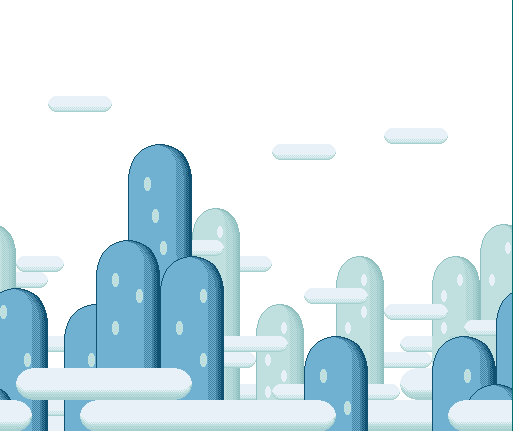
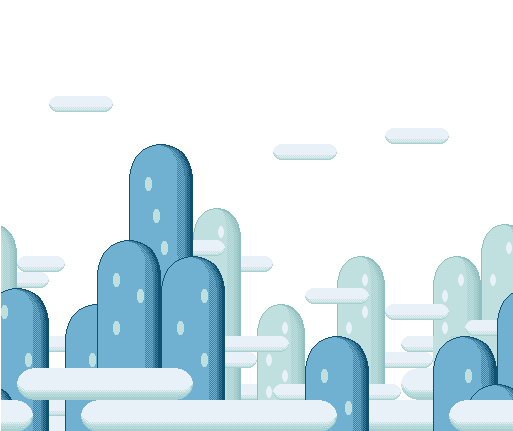
Fix camera width bigger than display

diff --git a/core/js/Loaders/LevelLoader.js b/core/js/Loaders/LevelLoader.js
@@ -16,37 +16,37 @@ export default async function loadLevel(name)
 {
     const level = new Level()
 
-    level.spec = await loadJSON(`core/levels/${name}.json`)
+    const levelSpec = await loadJSON(`core/levels/${name}.json`)
 
     // Set level size to the Container
     Container.bind({ 
-        levelWidth: level.spec.columns * Tile.defaultWidth,
-        levelHeight: level.spec.rows * Tile.defaultHeight,
+        levelWidth: levelSpec.columns * Tile.defaultWidth,
+        levelHeight: levelSpec.rows * Tile.defaultHeight,
     })
 
     // Background
-    const backgroundImage = await loadImage(`core/gfx/backgrounds/${level.spec.backgroundImage}`)
+    const backgroundImage = await loadImage(`core/gfx/backgrounds/${levelSpec.backgroundImage}`)
     
-    const backgroundLayer = new BackgroundLayer(level.spec.backgroundColor, backgroundImage, {
-        rows: level.spec.rows,
-        columns: level.spec.columns,
+    const backgroundLayer = new BackgroundLayer(levelSpec.backgroundColor, backgroundImage, {
+        rows: levelSpec.rows,
+        columns: levelSpec.columns,
     })
 
     level.layers.addBackgroundLayer(backgroundLayer)
 
     // Load Sprite Sheet
-    const spriteSheet = await loadSpriteSheet(level.spec.spriteSheet)
+    const spriteSheet = await loadSpriteSheet(levelSpec.spriteSheet)
 
     // Create tile layers
-    level.spec.layers.forEach(layerSpec => {
-        const layer = createTileLayer(layerSpec.tiles, level.spec.columns, level.spec.rows, spriteSheet)
+    levelSpec.layers.forEach(layerSpec => {
+        const layer = createTileLayer(layerSpec.tiles, levelSpec.columns, levelSpec.rows, spriteSheet)
         level.layers.addTileLayer(layer)
     })
 
-    createTileCollider(level.spec.layers, level.spec.columns, level.spec.rows, spriteSheet)
+    createTileCollider(levelSpec.layers, levelSpec.columns, levelSpec.rows, spriteSheet)
 
     //Sprite Layers
-    const spriteLayer = await createSpriteLayer(level.spec.gameObjects)
+    const spriteLayer = await createSpriteLayer(levelSpec.gameObjects)
     level.layers.addSpriteLayer(spriteLayer)
 
     Container.bind({ level })

diff --git a/core/js/Camera/Camera.js b/core/js/Camera/Camera.js
@@ -17,7 +17,7 @@ export default class Camera {
     }
 
     update(dt) {
-        // 
+        //
     }
 
     render(g) {
@@ -47,6 +47,14 @@ export default class Camera {
     checkBlankSpace() {
         const levelWidth = Container.getModule('levelWidth')
         const levelHeight = Container.getModule('levelHeight')
+
+        if (this.width > levelWidth) {
+            this.width = levelWidth
+        }
+
+        if (this.height > levelHeight) {
+            this.height = levelHeight
+        }
 
         // Left edge
         if (this.position.x < 0) {

diff --git a/core/js/Layers/BackgroundLayer.js b/core/js/Layers/BackgroundLayer.js
@@ -14,7 +14,7 @@ export default class BackgroundLayer {
 
         // Proportion of movement related to foreground
         // Makes "far illusion"
-        this.movementProportion = 1/10
+        this.movementProportion = 1/3
 
         this.buffer = this.createBackgroundBuffer()
     }

diff --git a/core/js/Level/Level.js b/core/js/Level/Level.js
@@ -5,7 +5,6 @@ export default class Level
 {
     constructor ()
     {
-        this.spec = {}
         this.layers = new LayerManager()
     }
 
